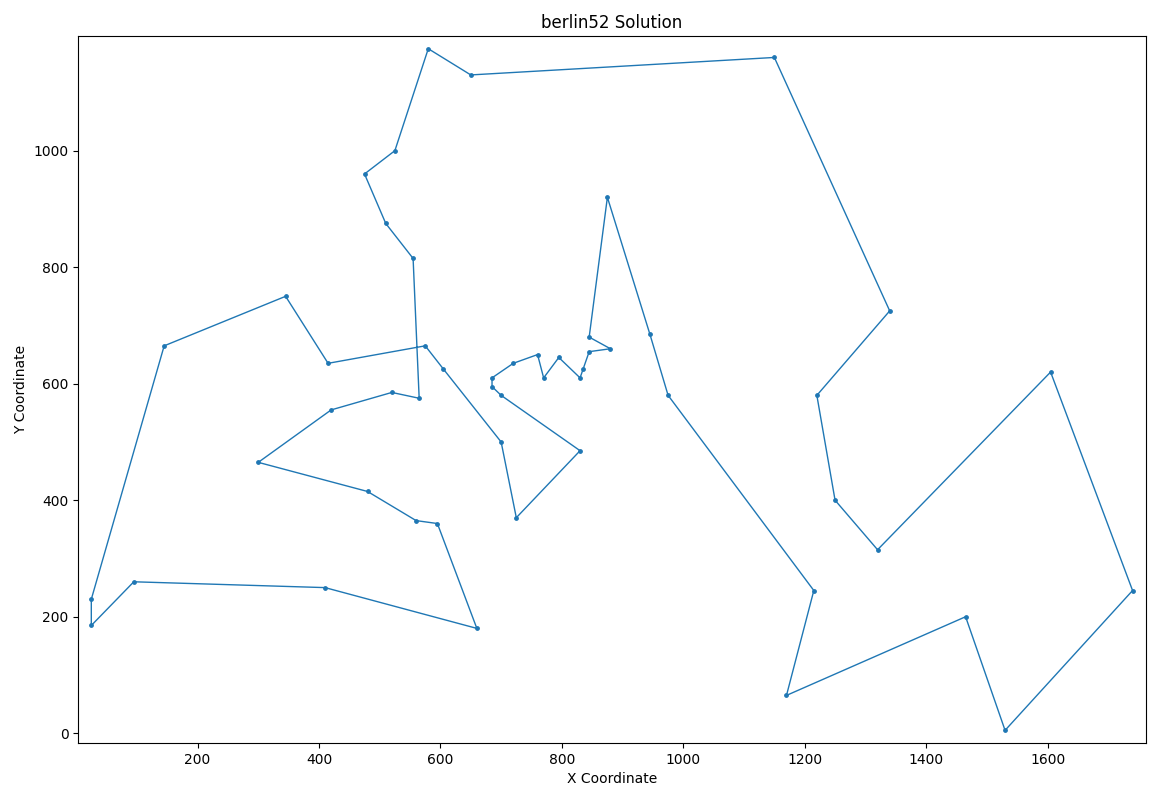
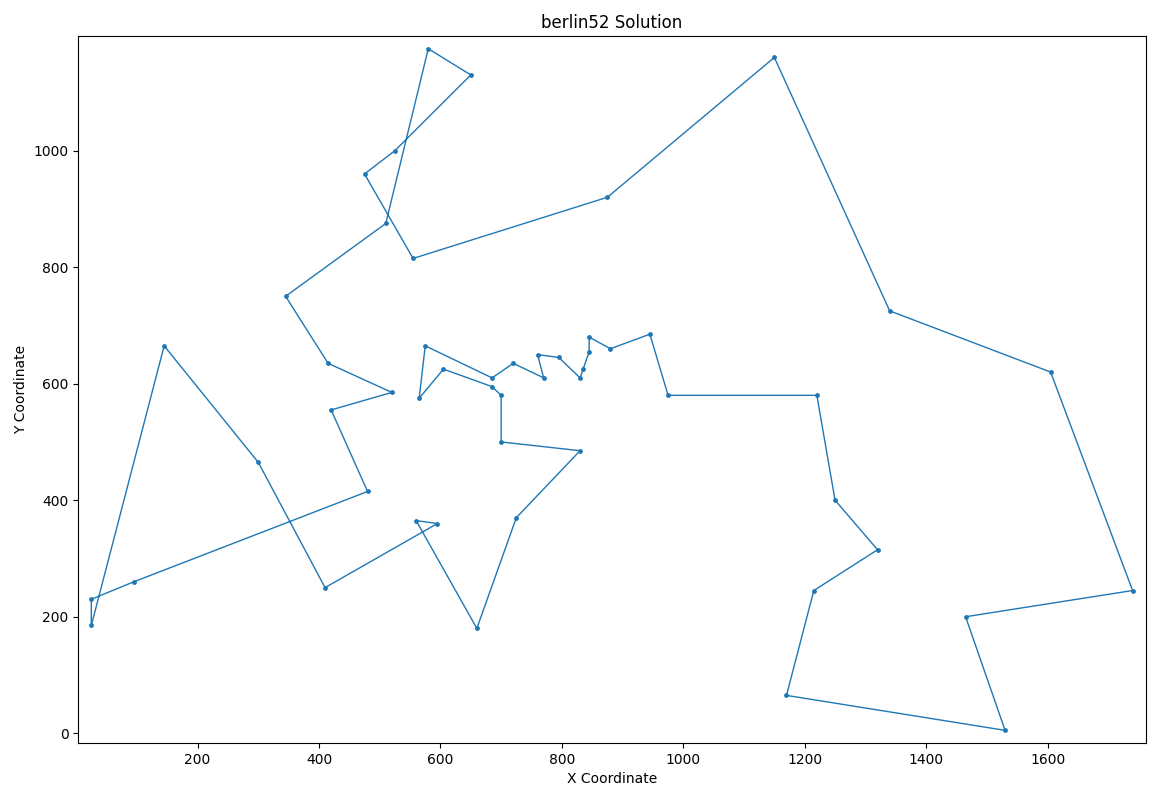
feat: Added roulette, new crossover and mutation

diff --git a/src/travel_graph_classic.py b/src/travel_graph_classic.py
@@ -5,6 +5,7 @@ from enum import Enum
 
 from typing import Any, Callable
 from matplotlib import pyplot as plt
+from itertools import accumulate
 import numpy as np
 
 from travel_graph import euclidean_distance
@@ -58,6 +59,34 @@ class TravelGraphClassic:
                 gnome.append(v)
 
         return np.array(gnome)
+    
+    @staticmethod
+    def selection_elitism(population, num_selections):
+        return sorted(population, key=lambda x: x.fitness)[:num_selections]
+
+    @staticmethod
+    def selection_roulette_wheel(population, num_selections):
+        # Step 1: Calculate Total Fitness
+        total_fitness = sum(individual.fitness for individual in population)
+        if total_fitness == 0:  # Handle edge case
+            relative_fitness = [1 / len(population)] * len(population)  # Equal probabilities
+        else:
+            relative_fitness = [individual.fitness / total_fitness for individual in population]
+
+        # Step 2: Build Cumulative Distribution
+        cumulative_probabilities = list(accumulate(relative_fitness))
+
+        # Step 3: Select Individuals
+        selected_individuals = []
+        for _ in range(num_selections):
+            spin = np.random.random()  # Random number between 0 and 1
+            for i, cumulative_prob in enumerate(cumulative_probabilities):
+                if spin <= cumulative_prob:
+                    selected_individuals.append(population[i])
+                    break
+
+        return selected_individuals
+
 
     @staticmethod
     def crossover_genes_pmx(s, t, crossover_factor=0.1):
@@ -80,6 +109,57 @@ class TravelGraphClassic:
 
         return c
 
+
+    def crossover_genes_edge_recombination(parent1, parent2, crossover_factor=None):
+        parent1 = parent1.copy()
+        parent2 = parent2.copy()
+
+        # Step 1: Build Edge Table
+        def build_edge_table(p1, p2):
+            edge_table = {city: set() for city in p1}
+            for p in (p1, p2):
+                for i in range(len(p)):
+                    city = p[i]
+                    left = p[i - 1]  # Neighbor to the left
+                    right = p[(i + 1) % len(p)]  # Neighbor to the right
+                    edge_table[city].update([left, right])
+            return edge_table
+
+        # Step 2: Select the next city
+        def select_next_city(current_city, edge_table):
+            neighbors = edge_table.get(current_city)
+            if neighbors is None or len(neighbors) == 0:
+                # Pick random city if no neighbors
+                while True:
+                    next_city = np.random.choice(list(edge_table.keys()))
+                    if next_city not in offspring:
+                        return next_city
+            
+            # Choose city with the fewest neighbors
+            next_city = min(neighbors, key=lambda x: len(edge_table[x]))
+            return next_city
+
+        # Initialize
+        edge_table = build_edge_table(parent1, parent2)
+        start_city = parent1[0]
+        offspring = [start_city]
+        current_city = start_city
+
+        # Step 3: Build the offspring
+        while len(offspring) < len(parent1)-1:
+            # Remove current city from all neighbor lists
+            for neighbors in edge_table.values():
+                neighbors.discard(current_city)
+
+            # Choose the next city
+            next_city = select_next_city(current_city, edge_table)
+            offspring.append(next_city)
+            del edge_table[current_city]  # Remove current city from edge table
+            current_city = next_city
+
+        return np.array(offspring + [offspring[0]])
+
+
     def mutate_gene(self, gnome, p_mutation=0.007):
         gnome = gnome.copy()
         for i in range(1, len(gnome)):
@@ -89,7 +169,28 @@ class TravelGraphClassic:
                     if i != j:
                         gnome[i], gnome[j] = gnome[j], gnome[i]
                         break
+        
         return gnome
+
+    def mutate_gene_displacement(self, solution, p_mutation=0.07):
+
+        if np.random.rand() > p_mutation:
+            return solution
+
+        # Step 1: Select a subset
+        n = len(solution)
+        start = np.random.randint(1, n - 2)  # Ensure at least two elements remain for mutation
+        end = np.random.randint(start + 1, n - 1)
+        subset = solution[start:end + 1]
+
+        # Step 2: Remove the subset
+        remaining = np.concatenate((solution[:start], solution[end + 1:]))
+
+        # Step 3: Reinsert the subset
+        insert_pos = np.random.randint(1, len(remaining))  # Position in the remaining list
+        mutated_solution = np.concatenate((remaining[:insert_pos], subset, remaining[insert_pos:]))
+
+        return mutated_solution
 
     def fitness_function(gnome, nodes, distance_function=euclidean_distance):
 
@@ -162,7 +263,13 @@ class TravelGraphClassic:
             # 2) Selection
             population = sorted(population, key=lambda x: x.fitness)
             new_population.extend(
-                population[:int(elitism_factor * population_size)])
+                TravelGraphClassic.selection_elitism(
+                    population, int(elitism_factor * population_size)
+                )
+                # TravelGraphClassic.selection_roulette_wheel(
+                #     population, int(elitism_factor * population_size)
+                # )
+            )
             elite_count = len(new_population)
 
             # 5) Diversity
@@ -172,18 +279,23 @@ class TravelGraphClassic:
                 temp.fitness = TravelGraphClassic.fitness_function(
                     temp.gnome, self.nodes, self.distance_function)
                 new_population.append(temp)
+            # new_population.extend(
+            #     TravelGraphClassic.selection_roulette_wheel(
+            #         population, int(diversity_factor * population_size)
+            #     )
+            # )
             elite_and_diversity_count = len(new_population)
 
             # 3) Crossovers
             while len(new_population) < population_size:
-                p1 = population[TravelGraphClassic.rand_num(
+                p1 = new_population[TravelGraphClassic.rand_num(
                     0, elite_and_diversity_count)]
-                p2 = population[TravelGraphClassic.rand_num(
+                p2 = new_population[TravelGraphClassic.rand_num(
                     0, elite_and_diversity_count)]
 
                 if p1 != p2:
                     child = Individual()
-                    child.gnome = TravelGraphClassic.crossover_genes_pmx(
+                    child.gnome = TravelGraphClassic.crossover_genes_edge_recombination(
                         p1.gnome, p2.gnome, crossover_factor)
                     child.fitness = TravelGraphClassic.fitness_function(
                         child.gnome, self.nodes, self.distance_function)
@@ -192,7 +304,7 @@ class TravelGraphClassic:
             # 4) Mutations
             mutation_start_index = 0 if mutate_elite else elite_count
             for individual in new_population[mutation_start_index:]:
-                individual.gnome = self.mutate_gene(
+                individual.gnome = self.mutate_gene_displacement(
                     individual.gnome, p_mutation)
                 individual.fitness = TravelGraphClassic.fitness_function(
                     individual.gnome, self.nodes, self.distance_function)

diff --git a/src/driver.py b/src/driver.py
@@ -48,13 +48,13 @@ def main():
         travel_graph_class=TravelGraphClassic,
         population_size=500,           # 1000
         generations=1000,               # 500
-        elitism_factor=0.15,             # 0.15
+        elitism_factor=0.05,             # 0.15
         elitism_factor_change=None,       # None
         diversity_factor=0.15,           # 0.15
         diversity_factor_change=None,   # None
-        crossover_factor=0.03,           # 0.1
+        crossover_factor=0.00,           # 0.1
         crossover_factor_change=None, # None
-        p_mutation=0.01,                # 0.01
+        p_mutation=0.5,                # 0.01
         p_mutation_change=None,         # None
         mutate_elite=True,              # True
         patience=50,                    # 50
